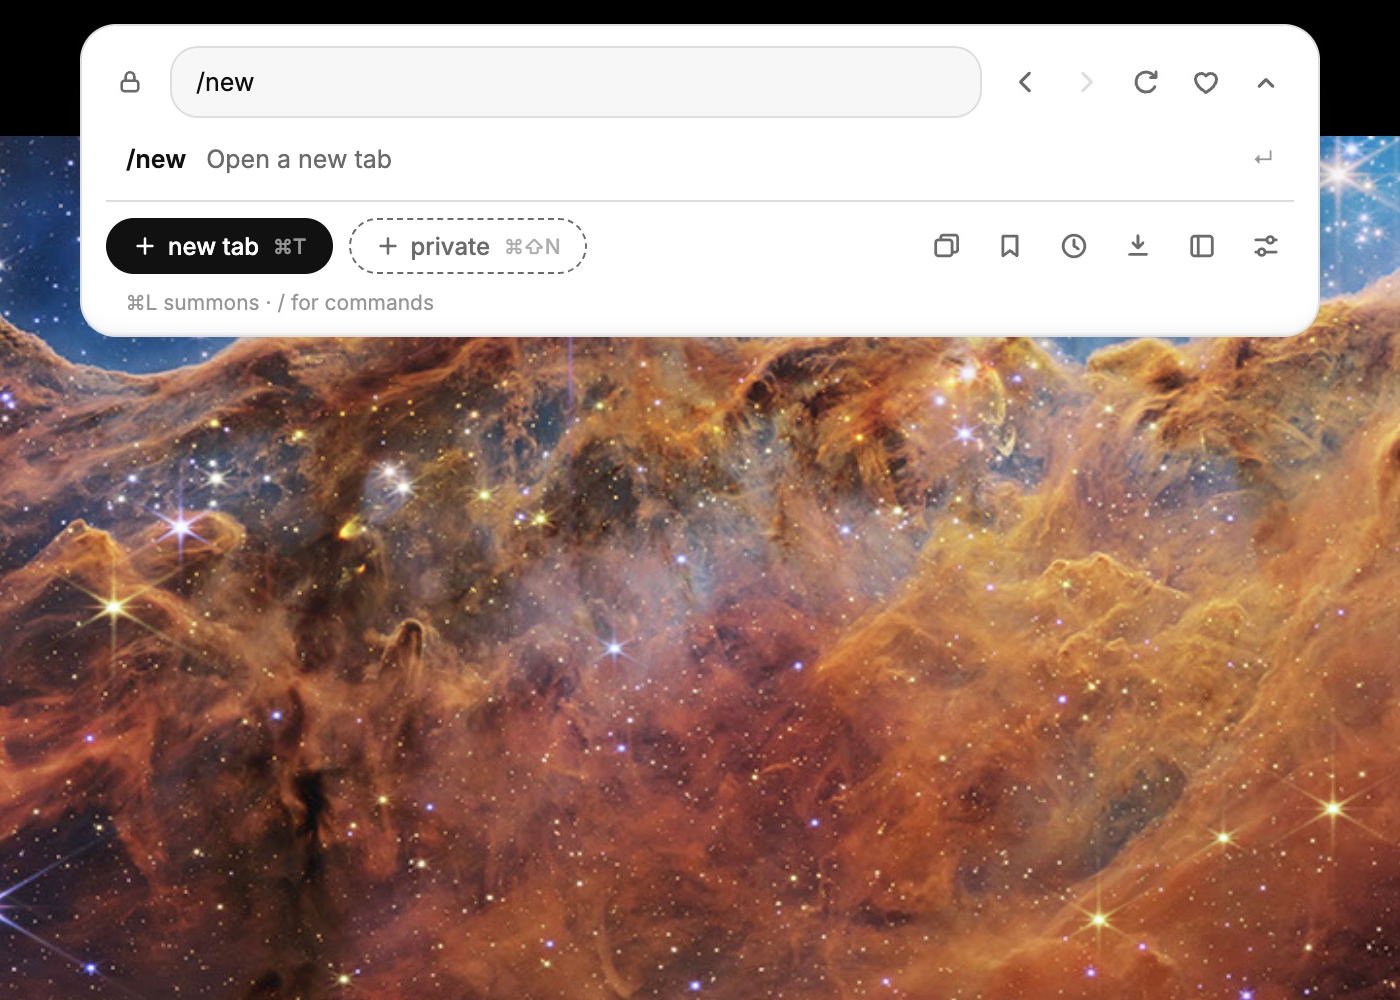
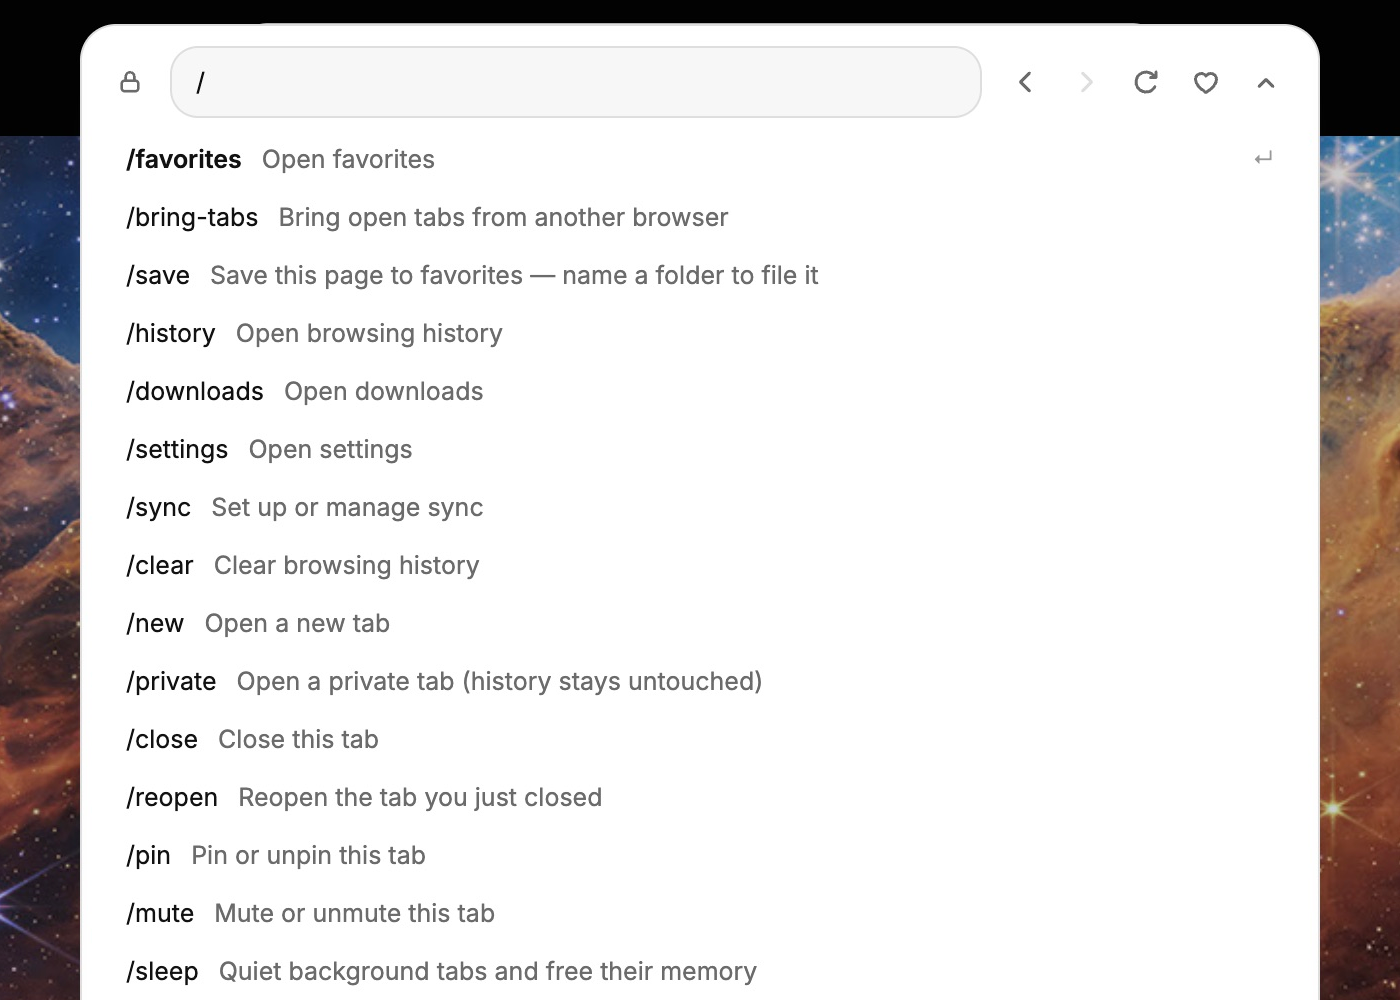
Show slash-command discovery in the Island demo

diff --git a/site/src/scripts/home.js b/site/src/scripts/home.js
@@ -119,13 +119,13 @@ initHorizonShield(document.querySelector(".horizon-study"));
       "Each dot is a tab. Hover or focus a dot in Blanc to preview it; select it to switch. Open the Island for the full list.",
     tabs: "Open the Island to see your tabs together. The panel sits over the page, so the page stays in place.",
     commands:
-      "Type a slash to find a command. Here, /new is ready to open a new tab.",
+      "Type / in the Island to reveal the available commands. Scroll the list in Blanc, or keep typing to filter it.",
   };
   const islandAlts = {
     resting:
       "Blanc v1.26.0: the resting Island above NASA’s Cosmic Cliffs image",
     tabs: "Blanc v1.26.0: the open Island lists the Webb telescope and two Cosmic Cliffs image pages",
-    commands: "Blanc v1.26.0: typing /new shows the command to open a new tab",
+    commands: "Blanc v1.26.0: typing / reveals the unfiltered slash-command list, starting with Favorites, Bring Your Tabs, Save, History, Downloads and Settings",
   };
   let islandTimer = null,
     islandPlaying = false,

diff --git a/site/src/styles/home.css b/site/src/styles/home.css
@@ -1070,7 +1070,7 @@
 }
 .home-revamp .island-cinema[data-state="commands"] [data-layer="commands"] {
   opacity: 1;
-  clip-path: inset(1.8% 5.3% 65.8% 5.3% round 20px);
+  clip-path: inset(1.8% 5.3% 0 5.3% round 20px 20px 0 0);
 }
 .home-revamp .island-hotspot {
   position: absolute;

diff --git a/docs/website-revamp-review.md b/docs/website-revamp-review.md
@@ -367,3 +367,14 @@ overflow or browser warnings/errors. State buttons, the native-positioned
 open/close hotspot, Escape, and sequence play/pause were verified in the browser.
 The demo profile's sample window was closed. Website PR #491 remains a draft;
 no production deployment or desktop app change is included.
+
+## Reveal slash commands (October 3)
+
+The Find a command step now shows a fresh native capture with `/` entered,
+revealing the unfiltered list instead of selecting `/new`. The reveal extends
+through the demo viewport, showing the beginning of the available commands;
+additional commands are reached by scrolling the list in the real app. Updated
+the accessible state description and recorded its exact public-release evidence.
+The center crop remains lossless and the source/export hashes are refreshed.
+Desktop/mobile preview, production site/SEO build and all 13 evidence/trust
+checks passed. No visible caption or app change was added.
